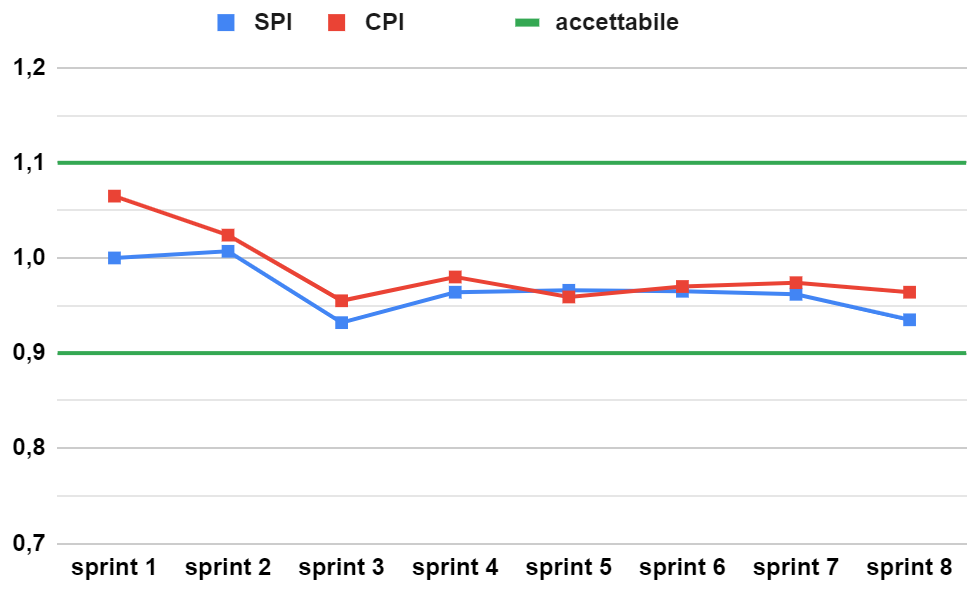
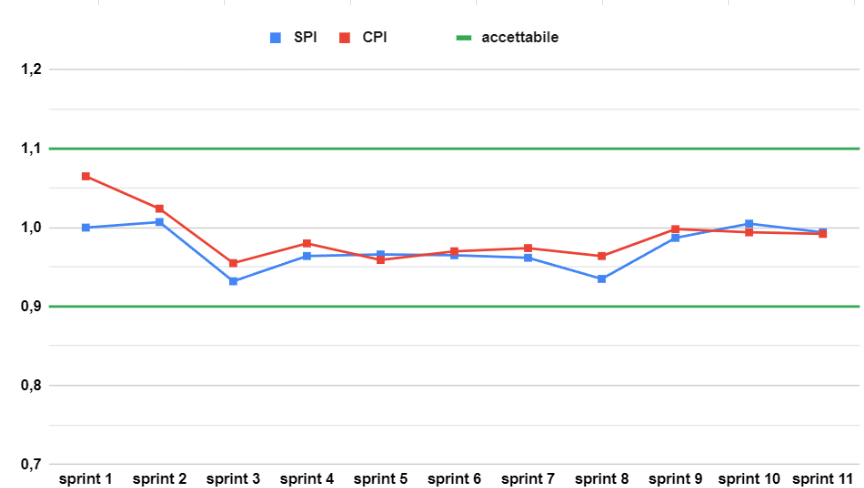
update cruscotti e analisi

diff --git a/3-PB/Documentazione_esterna/Piano_di_qualifica/cruscotto.tex b/3-PB/Documentazione_esterna/Piano_di_qualifica/cruscotto.tex
@@ -10,6 +10,7 @@
 Analizzando i valori riportati nel grafico, è riscontrabile una difficoltà persistente nel produrre preventivi orari vicini al consuntivato.\\
 In particolare, durante il periodo RTB, vengono registrati dei valori di poco inferiori all'accettabile nel terzo e quarto sprint e un valore di poco superiore nel quinto sprint. Il motivo del numero inferiore di ore produttive è stato causato da modifiche a documenti non previsti.\\
 Valori di molto insufficienti sono stati registrati nel settimo e ottavo sprint. In questi casi, l'incompleta attività di progettazione è andata inevitabilmente ad impattare sulle task relative alla programmazione, rinviandone l'inizio dei lavori ai periodi successivi.
+Dal nono sprint quindi, si registra un significativo aumento percentuale delle ore lavorative, superando le difficoltà riscontrate nei periodi precedenti. In particolare, nel decimo sprint si osserva un incremento del lavoro al di sopra delle aspettative, determinato dalla determinazione del gruppo nel completare l'MVP entro il 26 marzo. Per l'ultimo sprint, le ore di lavoro rientrano nei parametri previsti, grazie alla riduzione delle task pendenti in vista della conclusione del progetto.
 
 \section{Varianza di Budget}
 \begin{figure}[H]
@@ -20,6 +21,7 @@ Valori di molto insufficienti sono stati registrati nel settimo e ottavo sprint.
 \subsection{Analisi}
 Dall'analisi del grafico è immediato osservare che i valori di varianza di budget sono sempre rimasti all'interno della soglia di accettabilità durante tutto il periodo RTB.\\
 Il primo dato negativo e inferiore alla sogli di accettabilità è stato registrato durante l'ottavo sprint. In quel caso, come già analizzato con la Varianza dell'impegno orario, il mancato inizio delle attività di programmazione ha impattato sui costi, facendo sì che fosse di molto inferiore al preventivato.
+Al contrario, un valore quasi superiore alla soglia accettabile lo si ha nel decimo sprint, in corrispondenza dell'aumento delle ore di programmazione e progettazione al fine di terminare l'MVP.
 
 \section{Estimate to Complete e Estimate at Completion}
 \begin{figure}[H]
@@ -31,7 +33,7 @@ Il primo dato negativo e inferiore alla sogli di accettabilità è stato registr
 Dopo un ottimo inizio nei primi due sprint, è possibile notare un calo dei lavori nel terzo sprint, e un altro leggero rallentamento nel quinto. L'Estimate to Complete al terzo e al quinto sprint è diminuito in modo meno marcato rispetto lo sprint precedente. Inoltre, l'Estimate at Completion ha superato il Budget at Completion.\\
 Questo è causato dal mancato raggiungimento di tutti gli obiettivi fissati dalla milestone del terzo sprint.\\
 Il valore dopo il terzo sprint, nonostante il brusco rallentamento dell'ottavo periodo di osservazione, è comunque rimasto stabile ad un valore poco al di sopra del Budget at Completion.
-
+Nei successivi periodi, l'ETC scende costantemente, fatta eccezione per l'ottavo sprint, per le problematiche descritte precedentemente. In seguito, l'Estimate to Complete riprende un andamento discendente costante. 
 \section{Planned Value, Earned Value e Actual Cost}
 \begin{figure}[H]
     \centering
@@ -42,6 +44,7 @@ Il valore dopo il terzo sprint, nonostante il brusco rallentamento dell'ottavo p
 Dopo un ottimo inizio nei primi due sprint, come in altre metriche è possibile notare un calo dei lavori nel terzo. Se fino al secondo sprint i valori di Planned Value, Earned Value e Actual Cost erano quasi identici, a terzo sprint completato è riscontrabile dal cruscotto il "distaccamento" dei tre valori.\\
 Questo è causato dal mancato raggiungimento di tutti gli obiettivi fissati dalla milestone del terzo sprint, che hanno portato l'Earned Value ad essere minore del Planned.\\
 Dopo un andamento generalmente positivo tra il quarto e il settimo sprint ad avvicinare i valori delle tre metriche, Planned Value, Earned Value e Actual Cost hanno subito un ulteriore distaccamento durante l'ottavo periodo di osservazione. Questo è stato causato dall'elevata Varianza di budget e di impegno orario, già precedentemente analizzata.
+L'ottavo sprint, per i problemi citati in precedenza, comporta una diminuzione dell'Earned Value, che tuttavia si allinea con il Planned Value negli sprint successivi, una volta superate le prolematiche.
 
 \section{Schedule Variance e Cost Variance}
 \begin{figure}[H]
@@ -51,7 +54,8 @@ Dopo un andamento generalmente positivo tra il quarto e il settimo sprint ad avv
 \end{figure}
 \subsection{Analisi}
 Dopo un ottimo inizio nei primi due sprint, come in altre metriche è possibile notare un calo dei lavori nel terzo. Se fino al secondo sprint i valori di Schedule e Cost Variance mostravano un anticipo sui lavori rispetto il costo preventivato per eseguirli, il mancato raggiungimento di tutti gli obiettivi fissati dalla milestone del terzo sprint ha portato a dei valori negativi. Dal quarto sprint in poi i valori sono aumentati riportandosi e stabilendosi ad un livello di poco inferiore all'accettabile. Nel quinto sprint è riscontrabile un rallentamento dovuto al colloquio svolto con il committente, nel quale è emersa la necessità di apportare delle modifiche non previste a dei documenti.\\
-Un ulteriore pesante rallentamento è registrato nell'ottavo sprint, che impatta nelle metriche in questione come in tutte le altre già studiate.
+Un ulteriore pesante rallentamento è registrato nell'ottavo sprint, che impatta nelle metriche in questione come in tutte le altre già studiate. 
+A partire dal nono sprint, Schedule Variance e Cost Variance ritornano nella soglia accettabile, con un lieve aumento nello sprint dieci per via dell'aumento della produttività data dalla necessità di terminare l'MVP.
 
 \section{Schedule Performance Index e Cost Performance Index}
 \begin{figure}[H]
@@ -61,6 +65,7 @@ Un ulteriore pesante rallentamento è registrato nell'ottavo sprint, che impatta
 \end{figure}
 \subsection{Analisi}
 Similmente a quanto riscontrabile dall'analisi dei valori di Schedule e Cost Variance, i valori di Schedule Performance Index e Cost Performance Index sono scesi sotto l'1 con la fine dello sprint 3. I valori comunque rimangono ampiamente all'interno dei valori accettabili stabilendosi sullo 0,97 fino al settimo sprint, per poi peggiorare leggermente nel periodo successivo.
+Tuttavia, i valori in seguito all'ottavo sprint, tornano ad essere prossimi ad 1.
 
 \section{Misure di mitigazione insufficienti}
 \begin{figure}[H]
@@ -69,7 +74,7 @@ Similmente a quanto riscontrabile dall'analisi dei valori di Schedule e Cost Var
     \caption{Progressione occorrenza di rischi con misure mitigative insufficienti}
 \end{figure}
 \subsection{Analisi}
-Come riscontrabile dai valori riportati dal grafico, l'ampia analisi dei rischi effettuata a inizio progetto ha portato alla definizione di misure mitigative che hanno sempre avuto efficacia.
+Come riscontrabile dai valori riportati dal grafico, l'ampia analisi dei rischi effettuata a inizio progetto ha portato alla definizione di misure mitigative che hanno sempre avuto efficacia. L'unica eccezione è stata lo sprint 8, durante il quale c'è stato un rallentamento dei lavori a causa della difficoltà nella fase iniziale di progettazione, data dalla novità dell'implementazione dei pattern.
 
 \section{Rischi inattesi}
 \begin{figure}[H]
@@ -139,7 +144,7 @@ Il progetto ha prodotto un Minimum Viable Product, dunque soddisfa tutti i requi
         \includegraphics[width=\textwidth]{GulpeasePdq.png}
         \caption{Gulpease di Piano\_di\_qualifica\_v2.0}
     \end{minipage}
-\end{figure}
+\end{figure} % aggiunta SA e MU
 \begin{figure}[H]
     \centering
     \begin{minipage}[b]{0.45\textwidth}
@@ -154,6 +159,8 @@ Il progetto ha prodotto un Minimum Viable Product, dunque soddisfa tutti i requi
         \caption{Gulpease di Manuale\_utente\_v1.0}
     \end{minipage}
 \end{figure}
+\newpage
+
 \subsection{Analisi}
 Analizzando i valori del cruscotto, è immediato notare che l'indice di ogni verbale è sempre stato superiore alla soglia di accettabilità. È inoltre utile notare che la maggior parte degli indici di Gulpease più bassi sono stati registrati in verbali esterni, mostrando come la natura più discorsiva di tali verbali mette a rischio maggiormente la leggibilità dei documenti.\\
 Nonostante la variabilità dei valori, diminuita sempre più nel corso del progetto, è possibile notare come l'indice di Gulpease sia sempre stato superiore alla soglia di accettabilità per tutti i documenti, dimostrando la buona qualità della documentazione prodotta. 
